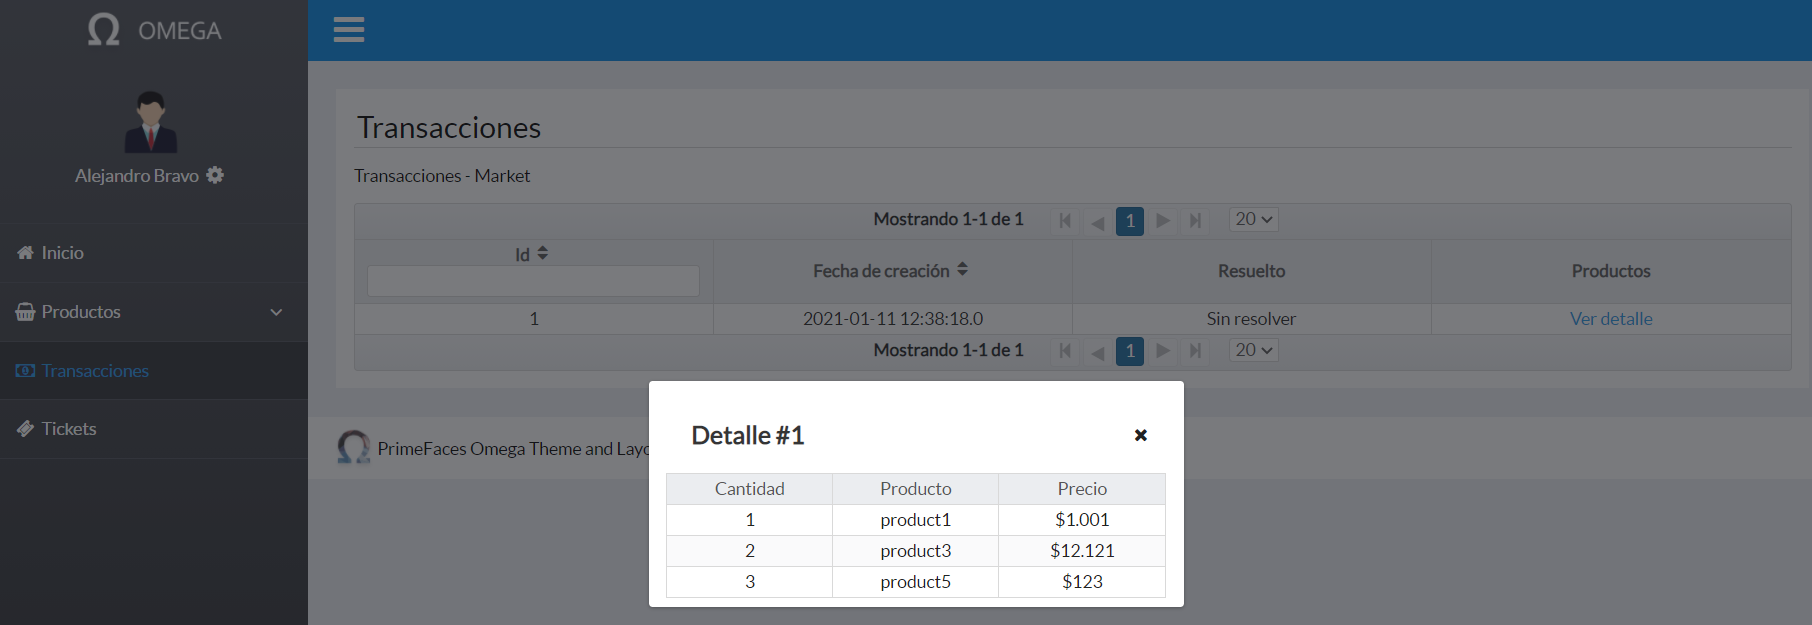
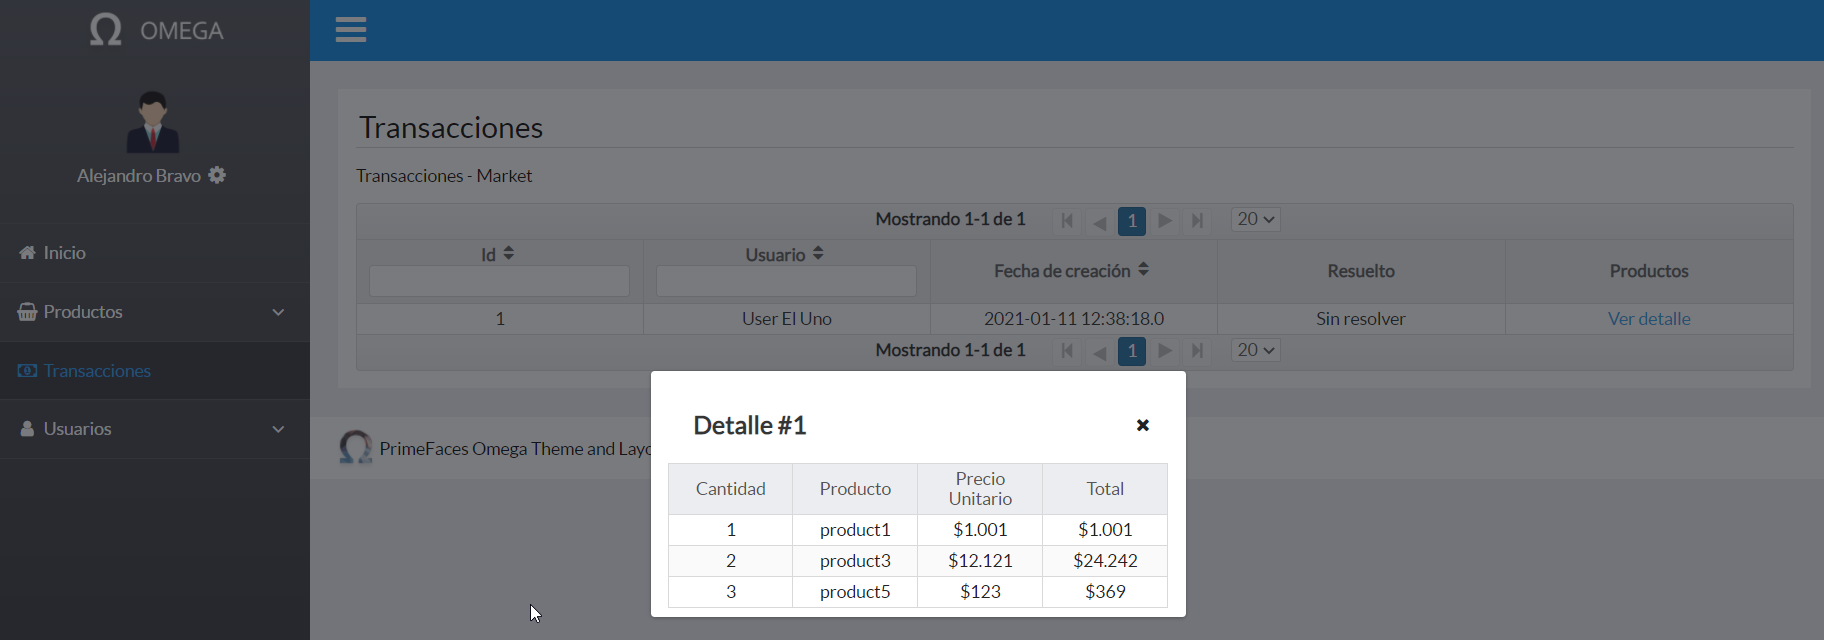
- Finish dashboard.

diff --git a/app-dashboard/src/main/java/cl/example/dashboard/beans/DashboardBean.java b/app-dashboard/src/main/java/cl/example/dashboard/beans/DashboardBean.java
@@ -1,0 +1,67 @@
+package cl.example.dashboard.beans;
+
+import cl.example.entities.domain.entities.TransactionEntity;
+import cl.example.entities.domain.entities.TransactionProductEntity;
+import cl.example.entities.domain.repositories.ProductRepository;
+import cl.example.entities.domain.repositories.TransactionProductRepository;
+import cl.example.entities.domain.repositories.TransactionRepository;
+import cl.example.entities.domain.repositories.UserRepository;
+import lombok.AllArgsConstructor;
+import lombok.Getter;
+import lombok.NoArgsConstructor;
+import lombok.Setter;
+import org.springframework.beans.factory.annotation.Autowired;
+import org.springframework.context.annotation.Scope;
+import org.springframework.stereotype.Component;
+
+import javax.annotation.PostConstruct;
+import java.util.List;
+
+@Component
+@Scope("view")
+public class DashboardBean extends BaseBean {
+
+    @Autowired
+    private ProductRepository productRepository;
+
+    @Autowired
+    private TransactionProductRepository transactionProductRepository;
+
+    @Autowired
+    private UserRepository userRepository;
+
+    @Getter
+    private Integer products;
+
+    @Getter
+    private Integer transactions;
+
+    @Getter
+    private Integer profits;
+
+    @Getter
+    private Integer users;
+
+    @Getter
+    private Integer usersEnable;
+
+    @Getter
+    private Integer usersDisable;
+
+    @Getter
+    private List<TransactionProductEntity> txps;
+
+    @PostConstruct
+    public void init() {
+        products = productRepository.countByClient_Id(getClientId());
+
+        txps = transactionProductRepository.findById_Transaction_Client_Id(getClientId());
+        transactions = txps.size();
+        profits = txps.stream().mapToInt(TransactionProductEntity::getTotal).sum();
+
+        users = userRepository.countByClient_Id(getClientId());
+        usersEnable = userRepository.countByClient_IdAndEnable(getClientId(), true);
+        usersDisable = users - usersEnable;
+    }
+
+}

diff --git a/lib-entities/src/main/java/cl/example/entities/domain/repositories/UserRepository.java b/lib-entities/src/main/java/cl/example/entities/domain/repositories/UserRepository.java
@@ -9,4 +9,8 @@ public interface UserRepository extends JpaRepository<UserEntity, Integer> {
 
     UserEntity findByIdAndClient_Id(int userId, int clientId);
 
+    Integer countByClient_Id(int clientId);
+
+    Integer countByClient_IdAndEnable(int clientId, boolean enable);
+
 }

diff --git a/lib-entities/src/main/java/cl/example/entities/domain/repositories/TransactionProductRepository.java b/lib-entities/src/main/java/cl/example/entities/domain/repositories/TransactionProductRepository.java
@@ -13,4 +13,6 @@ public interface TransactionProductRepository  extends JpaRepository<Transaction
 
     List<TransactionProductEntity> findById_Product_Id(int productId);
 
+    List<TransactionProductEntity> findById_Transaction_Client_Id(int clientId);
+
 }

diff --git a/lib-entities/src/main/java/cl/example/entities/domain/repositories/ProductRepository.java b/lib-entities/src/main/java/cl/example/entities/domain/repositories/ProductRepository.java
@@ -11,4 +11,6 @@ public interface ProductRepository extends JpaRepository<ProductEntity, Integer>
 
     void deleteByIdAndClient_Id(int productId, int clientId);
 
+    Integer countByClient_Id(int clientId);
+
 }
